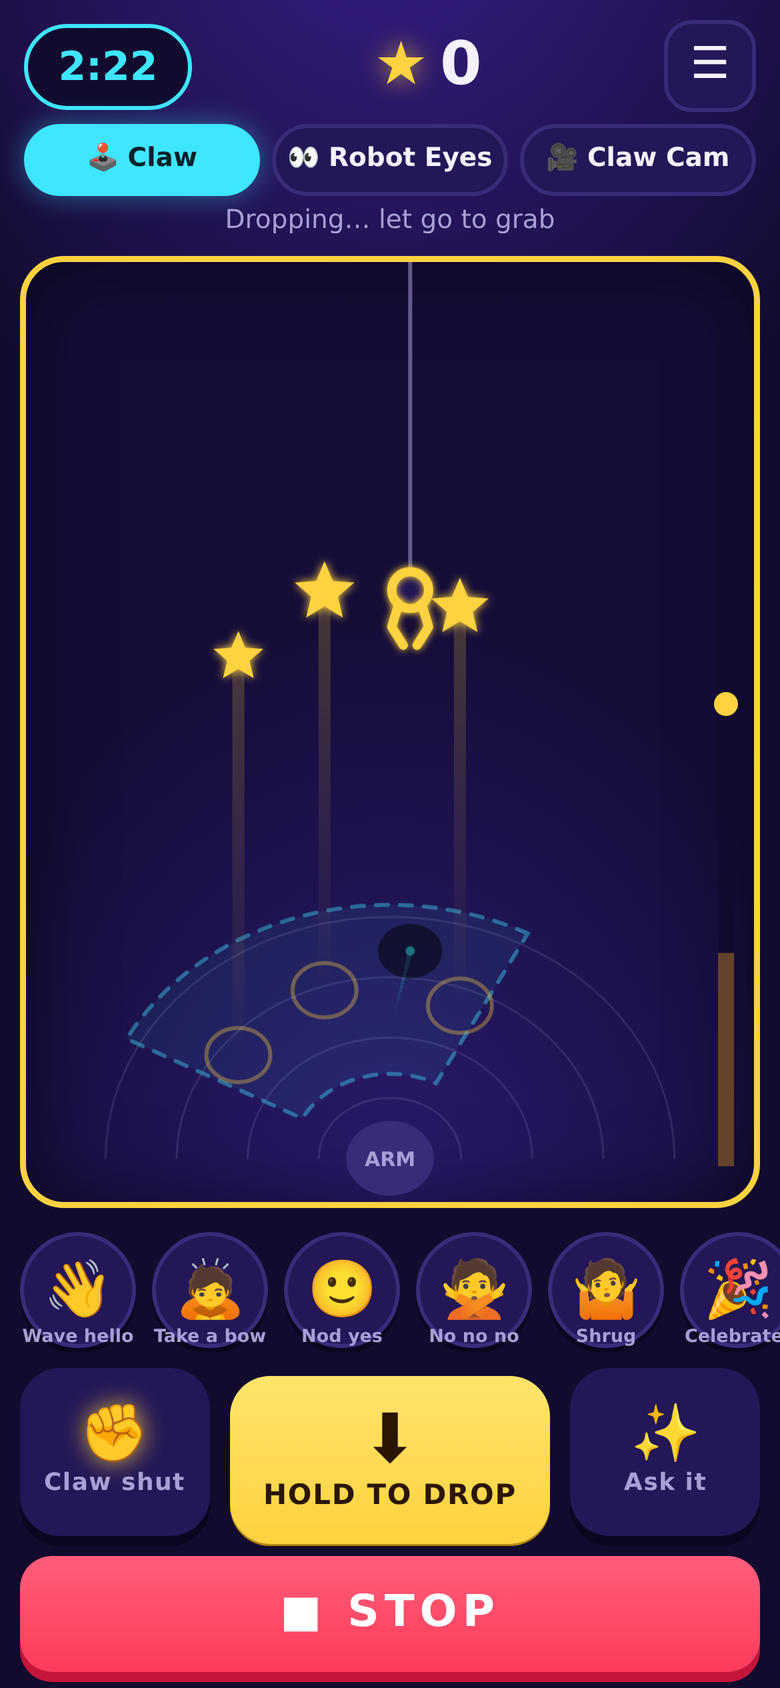
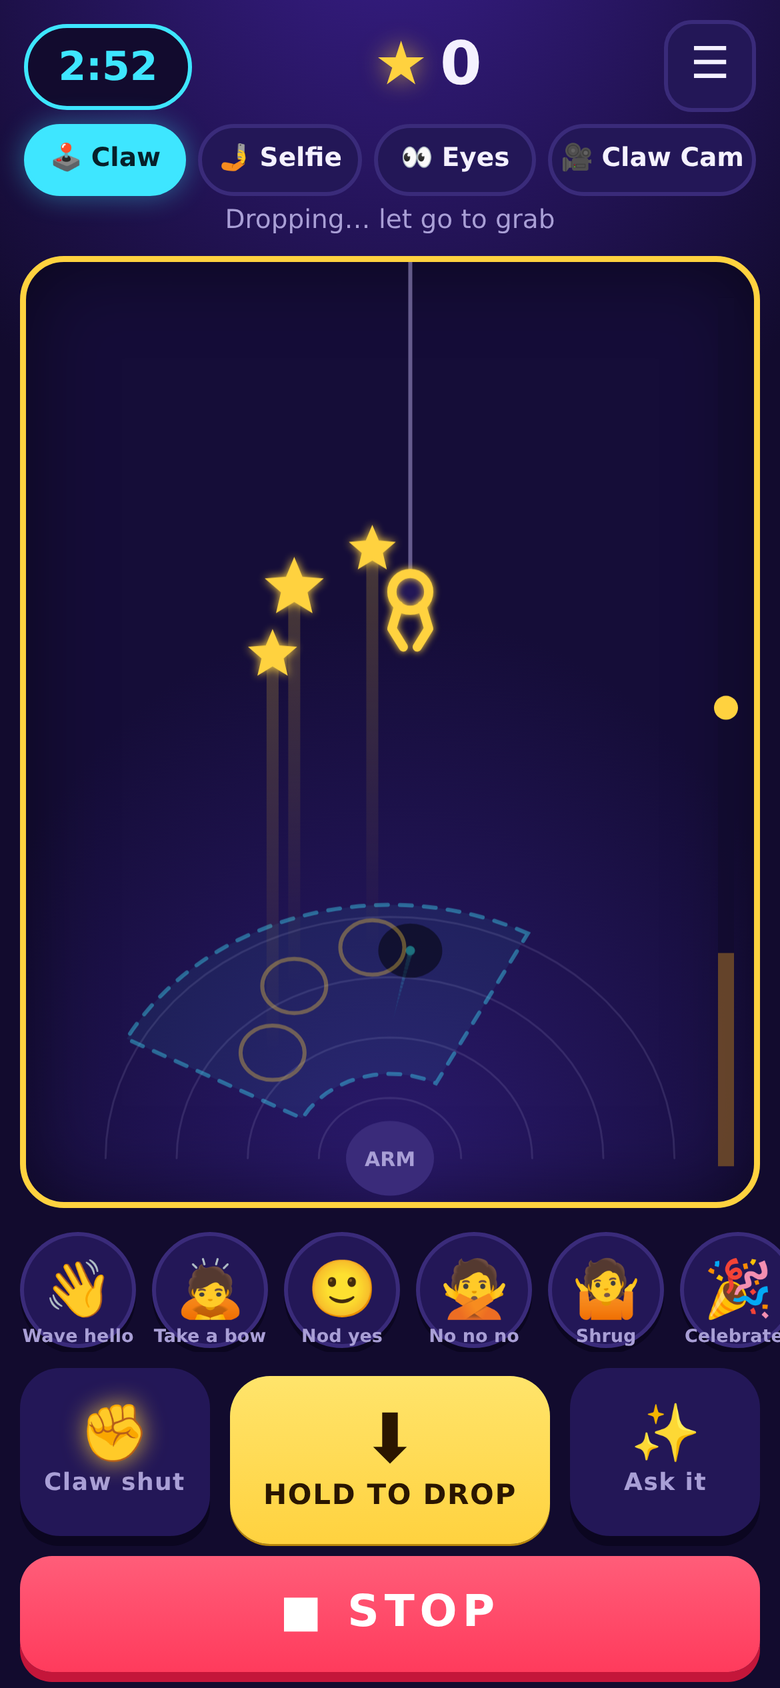
Selfie notebook, README, PROGRESS; smoke test and screens

diff --git a/experiments/2026-10-30-arcade-phone/LOG.md b/experiments/2026-10-30-arcade-phone/LOG.md
@@ -2,7 +2,7 @@
 
 **Experimenters:** Naman (idea) + Claude (build on serenity, no arm)
 **Goal:** A second phone experience for open play that feels like a game, not like driving a JCB. The classic page (`openplay/static/play.html`) gives people levers: a Slow/Normal switch, a grip slider, two joysticks labelled away/toward/up/down/twist, joint bars. Make one more version where each thumb has one verb and there is something to *do* (a goal, a score), on the same protocol and safety model.
-**Status:** built (claw game + Robot Eyes + Claw Cam); mock-daemon end to end green with a synthetic camera; real phone, camera and arm next (laptop).
+**Status:** built (claw game + Robot Eyes + Claw Cam + 🤳 Selfie); mock-daemon end to end green with a synthetic camera; real phone, camera and arm next (laptop).
 
 Branch `arcade-phone` (fork). Page: `openplay/static/arcade.{html,css,js}`, served at `/arcade`; `--phone-ui arcade` puts it on the QR.
 
@@ -90,6 +90,43 @@ Same environment as above; open play started with `--phone-ui arcade --cam test`
 - `pytest openplay/tests`: 146 passed, 7 failed, all in `test_chess.py` and all failing on clean `main` on serenity too (the repo's `workcell.json` is now `calibrated: true`, which these tests assume is false; one flaky). New: [`openplay/tests/test_modes.py`](../../openplay/tests/test_modes.py) (auto / on / off visibility and refusals, the relay's frames and failure reporting, the synthetic frame).
 
 Screens: [Robot Eyes](screens/9-robot-eyes.png), [Thermal](screens/10-robot-eyes-thermal.png), [the photo](screens/11-photo.png), [Claw Cam](screens/12-claw-cam.png) (the test camera).
+
+## 2026-10-30 15:00–15:45 IST: 🤳 Selfie: the arm takes your photo, saved on the phone and the laptop (serenity, mock daemon)
+
+Naman: "make the robot arm take a selfie of me … make sure the selfie gets saved on the phone and the laptop that is controlling the robot arm." Branch `arcade-selfie` from fork main `663bd13` (PR #2 merged).
+
+**Decision: aim from `armctl/audience.json`.** It already records where people stand (29 Oct: the table's front edge on the arm's left, eye (0.45, 1.10, 0.85) m). [`openplay/selfie.py`](../../openplay/selfie.py) `aim_pose` keeps the ready pose and changes only j1 (base) and j4 (wrist tilt), grid-searching the angle between the camera axis (the fingers' direction, `kin.approach`) and the eye, inside the daemon's soft limits minus 0.1 rad:
+
+```
+standing   q=[1.10, 0.5, 0.8, 0.09, 0, 0]   5.3° off   (j1 capped by the site's 1.2 soft limit; it would want 1.18)
+seated     q=[1.10, 0.5, 0.8, -0.23, 0, 0]  5.7° off
+down-table q=[0.00, 0.5, 0.8, -0.07, 0, 0]  0.2° off
+```
+
+5° is well inside the camera's ~100° view. The server moves there with `move_joints` at 0.3 rad/s (pick_play's cap), after the operator's Approve when auto-play is off (the display shows the two-keyframe preview), as a discrete action.
+
+**Decision: the laptop keeps both versions.** On `selfie.snap` the server takes the camera's **full-size** frame itself (not the 640 px relay) and saves it in `--selfie-dir` (default `~/Pictures/openyam-selfies`: photos of people never go in the repo) with `selfies.jsonl`; the phone fetches that original, frames it (caption, name, date, the chosen filter, the whole picture), shows it, and uploads the framed copy, saved next to it. The display pops the newest one up for 9 s; `http://127.0.0.1:8451/selfies` is a gallery of all of them (loopback only). Robot Eyes' SNAP now goes through the same path, so those photos are on the laptop too.
+
+**Decision: "saved on the phone" is one tap.** A web page can't write to the photo library by itself. **💾 Save to my phone**: on iPhone the share sheet (its "Save Image" puts the photo in Photos), elsewhere a download (Android: Downloads, shown in the gallery). Press-and-hold the photo also works. The phone says when the laptop copy is saved ("✅ Also saved on the robot's laptop").
+
+**Flow on the phone (🤳 Selfie tab):** 🎯 Find me (aim only) or TAKE MY SELFIE (aims if needed, then 5-4-3-2-1 😁, flash, snap) → the framed photo with 💾 Save to my phone, 🔁 Again (same aim, new countdown), Keep playing. A dashed face guide shows the middle of the picture; drag to fine-tune (the same look-around as Robot Eyes). Leaving the tab forgets the aim.
+
+### Test (mock daemon, `--cam test`, `--selfie-dir /tmp/arcade-test/selfies`, serenity)
+
+[`arcade_smoke.cjs`](arcade_smoke.cjs) (third argument: the display URL) now also opens 🤳 Selfie, presses TAKE MY SELFIE, waits for the photo and "Also saved", and screenshots the laptop display and gallery:
+
+```
+"selfie": {"dj1": 0.861, "j1": 1.09999, "dj4": -0.706, "laptop": "✅ Also saved on the robot's laptop"}, "errors": []
+/tmp/arcade-test/selfies: 20261030-…-asha.jpg, 20261030-…-asha-framed.jpg (×2: the Eyes snap and the selfie), selfies.jsonl
+server: "selfie: Asha took a selfie with the arm 📸", "selfie saved: /tmp/arcade-test/selfies/…-asha.jpg"
+```
+
+- **Observation:** one tap aimed the arm (j1 → 1.10, the audience preset), counted down, snapped; both files on the laptop; the display showed the pop-up. No page errors.
+- `pytest openplay/tests`: 150 passed, 7 failed (the same `test_chess.py` set that fails on clean `main` here; one of them flaky). New: [`test_selfie.py`](../../openplay/tests/test_selfie.py) (aim pose and limits, the store, the server's aim → snap → save → framed, no camera → no selfie).
+
+Screens: [Selfie tab](screens/13-selfie.png), [countdown](screens/14-selfie-countdown.png), [the photo](screens/15-selfie-photo.png), [laptop display pop-up](screens/16-laptop-display-selfie.png), [laptop gallery](screens/17-laptop-gallery.png) (the synthetic camera; no real people).
+
+**Next for the selfie on the arm:** measure where players actually stand at the event and set `--selfie-at` (or edit `armctl/audience.json`); check the real camera's image is upright at the selfie pose (j6 = 0; if not, rotate in the phone's framing); watch j4 heat while it holds the pose; a sign line that photos are kept on the laptop.
 
 ### Next (laptop, with the arm)
 1. Mock first on the laptop: `--phone-ui arcade`, play on a real phone over the LAN; check the feel of the floating stick and DROP with real touch latency. With the lab console running, `--cam console`: does the relay keep up on the event Wi-Fi (frame rate on the phone, the console's camera load)?

diff --git a/experiments/README.md b/experiments/README.md
@@ -29,7 +29,7 @@ Safety rules carry across all experiments: start folded on the stops, probe befo
 | [2026-10-29-pick-anything](2026-10-29-pick-anything/LOG.md) | Naman (goal) + Claude (cloud build) | Pick up anything you name: open-vocabulary masks (YOLO-E via DimOS, Claude fallback) into the tap path's geometry and closed loop; `pick_anything` CLI; follow by name | built; synthetic tests green; YOLO-E on the laptop GPU next |
 | [2026-10-29-reuse](2026-10-29-reuse/REPORT.md) | Naman (question) + Claude (research agents) | Who already solved detect / follow / pick: DimOS ships YOLO-E open-vocabulary detection, a CSRT + PID drone follower and an agentic pick-and-place (xArm + depth only); what to replace in our code and what to keep | done (desk research); port next |
 | [2026-10-29-follow](2026-10-29-follow/LOG.md) | Naman (idea) + Claude (cloud build) | Continuous tracking + visual-servo following: the wrist camera tracks the object at frame rate (fast patch tracker re-anchored by the slow finders, Kalman with capture-time stamps), and the arm keeps the camera over it by streaming joint velocities through the deadman ([`interfaces/follow/`](../interfaces/follow/README.md)) | built; synthetic sim + mock-daemon e2e green; real-arm dry run next |
-| [2026-10-30-arcade-phone](2026-10-30-arcade-phone/LOG.md) | Naman (idea) + Claude (serenity build) | Open play as a game, not levers: a claw-machine phone page (`/arcade`, `--phone-ui arcade`): drag on an angled map to steer, hold DROP / let go to grab, stars, combos, score, emotes; camera games Robot Eyes (look around, filters, photo) and Claw Cam; chess / pick off on the real arm by default | built; mock-daemon e2e green (synthetic camera); real phone, camera + arm next |
+| [2026-10-30-arcade-phone](2026-10-30-arcade-phone/LOG.md) | Naman (idea) + Claude (serenity build) | Open play as a game, not levers: a claw-machine phone page (`/arcade`, `--phone-ui arcade`): drag on an angled map to steer, hold DROP / let go to grab, stars, combos, score, emotes; camera games Robot Eyes (look around, filters, photo), Claw Cam and 🤳 Selfie (the arm aims at you and takes your photo; saved on the phone and the laptop); chess / pick off on the real arm by default | built; mock-daemon e2e green (synthetic camera); real phone, camera + arm next |
 | [2026-10-28-wristcam](2026-10-28-wristcam/LOG.md) | Naman (+ Claude) | Wrist camera: calibrate (lens, hand-eye, table) from one taped sheet; find a cup and grasp it in a closed loop | active: synthetic tests green; real-arm calibration next |
 
 ## Ideas backlog

diff --git a/PROGRESS.md b/PROGRESS.md
@@ -10,6 +10,16 @@ What got done, when, how it was checked, and what's next. Newest session on top.
 
 ---
 
+## 2026-10-30 (15:00–15:45 IST): 🤳 Selfie (serenity; no arm), branch `arcade-selfie`
+
+- 🧪 **The arm takes your selfie** ([LOG](experiments/2026-10-30-arcade-phone/LOG.md), `openplay/selfie.py`): 🎯 aims the wrist camera at where people stand (`armctl/audience.json`, j1 + j4 only, inside the soft limits, operator approval when auto-play is off), 5-4-3-2-1, snap. **Saved on the laptop** (full-size original + framed copy in `~/Pictures/openyam-selfies`, `selfies.jsonl`, display pop-up, gallery at `:8451/selfies`) and **on the phone** (one tap: iPhone share sheet → Save Image, Android download). Robot Eyes photos are saved the same way.
+- Checked on the mock with the synthetic camera: one tap aimed (j1 → 1.10), snapped, both files on the laptop, "Also saved" on the phone. `openplay/tests`: 150 passed; the 7 failures are the chess tests that fail on clean `main` too.
+
+### Next
+1. ⏳ Laptop: set `--selfie-at` for the event's layout; check the real camera's picture is upright at the selfie pose; a sign line that photos stay on the laptop.
+
+---
+
 ## 2026-10-30 (13:30–14:50 IST): arcade phone page + camera games, chess/pick off on the real arm (serenity; no arm), branch `arcade-phone`
 
 - 🧪 **Open play, arcade version** ([experiments/2026-10-30-arcade-phone/LOG.md](experiments/2026-10-30-arcade-phone/LOG.md), [openplay/README.md § Arcade](openplay/README.md#arcade-the-same-thing-as-a-claw-machine-game)): a second phone page at `/arcade` that plays like a claw machine instead of a set of levers. Drag on an angled map to steer, hold DROP / let go to grab and come back, stars, gold dive stars, combos, score, emotes, Ask it. Same protocol and safety model; STOP above every overlay. `--phone-ui arcade` puts it on the QR (default stays classic).

diff --git a/openplay/README.md b/openplay/README.md
@@ -28,6 +28,7 @@ Two more games when the wrist camera is available (tabs at the top of the game; 
 
 - **👀 Robot Eyes:** the phone shows what the robot sees. Drag to look around (the base turns, the wrist tilts: joint velocities), pick a filter (🤖 Robot HUD, 🔥 Thermal, 👾 8-bit, 💥 Comic), **📸 SNAP** for a 3-2-1 framed photo ("Seen by the robot", your name, the date) to save or share, 👋 to make it wave at you.
 - **🎥 Claw Cam:** the claw game from the claw's own eye: the same steer and DROP, the camera picture instead of the map.
+- **🤳 Selfie:** the arm takes your photo. **🎯 Find me** turns the camera toward where people stand (`armctl/audience.json`; `--selfie-at standing|seated|down-table|x,y,z`), or just press **TAKE MY SELFIE**: it aims, counts down 5-4-3-2-1 and snaps. Drag to fine-tune the framing first if you like. The photo is saved **on the laptop** (the camera's full-size original and the framed copy, in `--selfie-dir`, default `~/Pictures/openyam-selfies`, with `selfies.jsonl`) and pops up on the display; all of them at `http://127.0.0.1:8451/selfies`. On the phone, **💾 Save to my phone** is one tap (iPhone: the share sheet's "Save Image" puts it in Photos; Android: a download). Robot Eyes' SNAP is saved the same way. **Photos of people stay on the laptop: never copy them into the repo**, and tell players (a line on the sign) that their selfie is kept on the laptop.
 
 The frames come from the lab console's camera (`--cam console`, the default; the server relays them only to the player whose turn it is, ≤ 10 fps at 640 px), `--cam test` draws a synthetic picture for rehearsals, `--cam off` hides the camera games.
 
